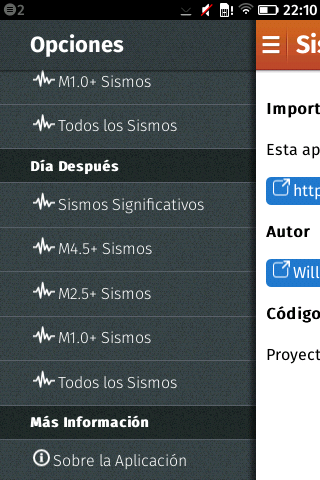
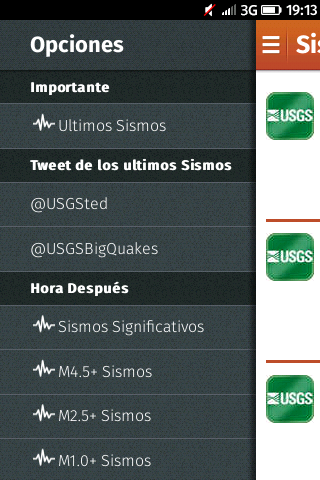
update screenshoots

diff --git a/README.md b/README.md
@@ -9,6 +9,8 @@ You can install the application at:
 ![2](https://raw.github.com/marti1125/Earthquake/master/2.png)
 ![3](https://raw.github.com/marti1125/Earthquake/master/3.png)
 ![4](https://raw.github.com/marti1125/Earthquake/master/4.png)
+![5](https://raw.github.com/marti1125/Earthquake/master/5.png)
+![6](https://raw.github.com/marti1125/Earthquake/master/6.png)
 
 ###Maps
 * [Mapbox](https://www.mapbox.com)
